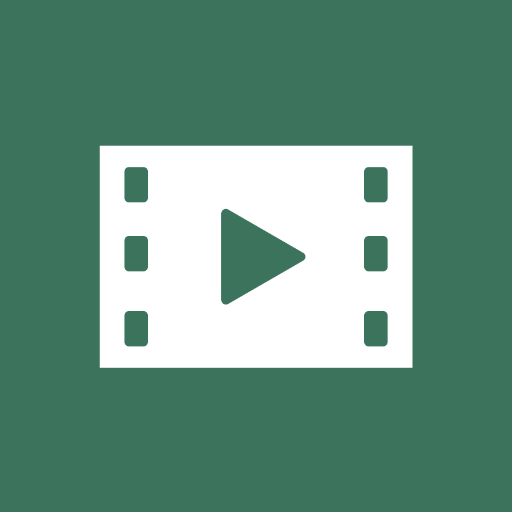
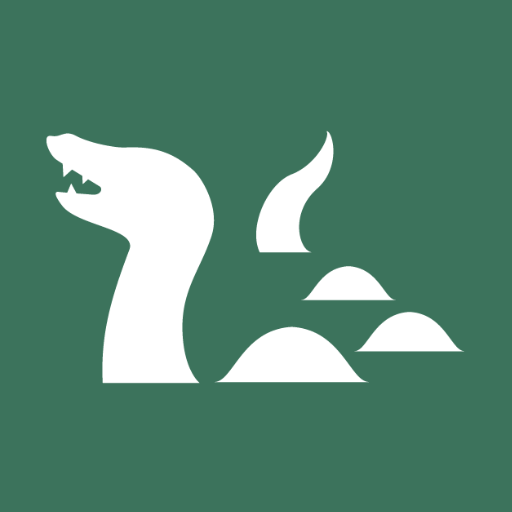
アイコン変更、バージョンアップ

Changed region(s): [[0.0938, 0.25, 0.9062, 0.75]]

diff --git a/index.html b/index.html
@@ -6,6 +6,7 @@
 <meta name="viewport" content="width=device-width, initial-scale=1.0" />
 <meta name="apple-mobile-web-app-capable" content="yes">
 <meta name="apple-mobile-web-app-status-bar-style" content="default">
+<link rel=”icon” type=”image/x-icon” href=”icons/favicon.ico”>
 <link rel="apple-touch-icon" href="icons/icon-192.png">
 <title>My English Phrase App</title>
 <link rel="manifest" href="manifest.json" />

diff --git a/serviceWorker.js b/serviceWorker.js
@@ -1,5 +1,5 @@
 // ① キャッシュ名を定義（バージョンを上げるときはここを書き換える）
-const CACHE_NAME = 'phrase-app-v2.3';
+const CACHE_NAME = 'phrase-app-v2.4';
 
 // ② キャッシュ対象のリストを配列にまとめておくと管理しやすい
 const URLS_TO_CACHE = [
